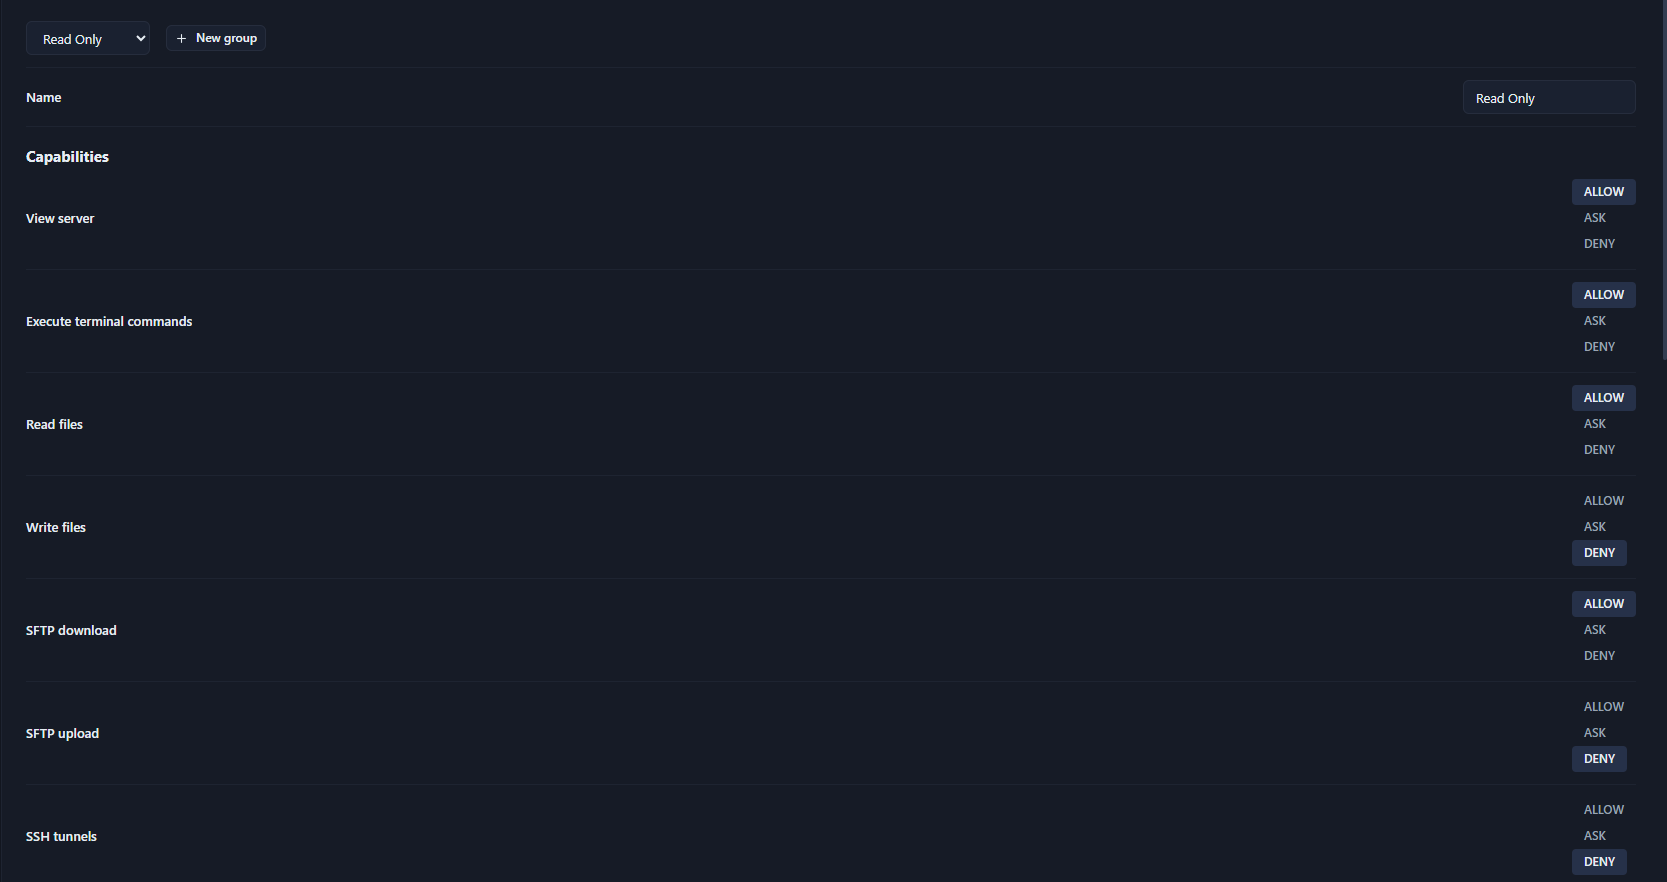
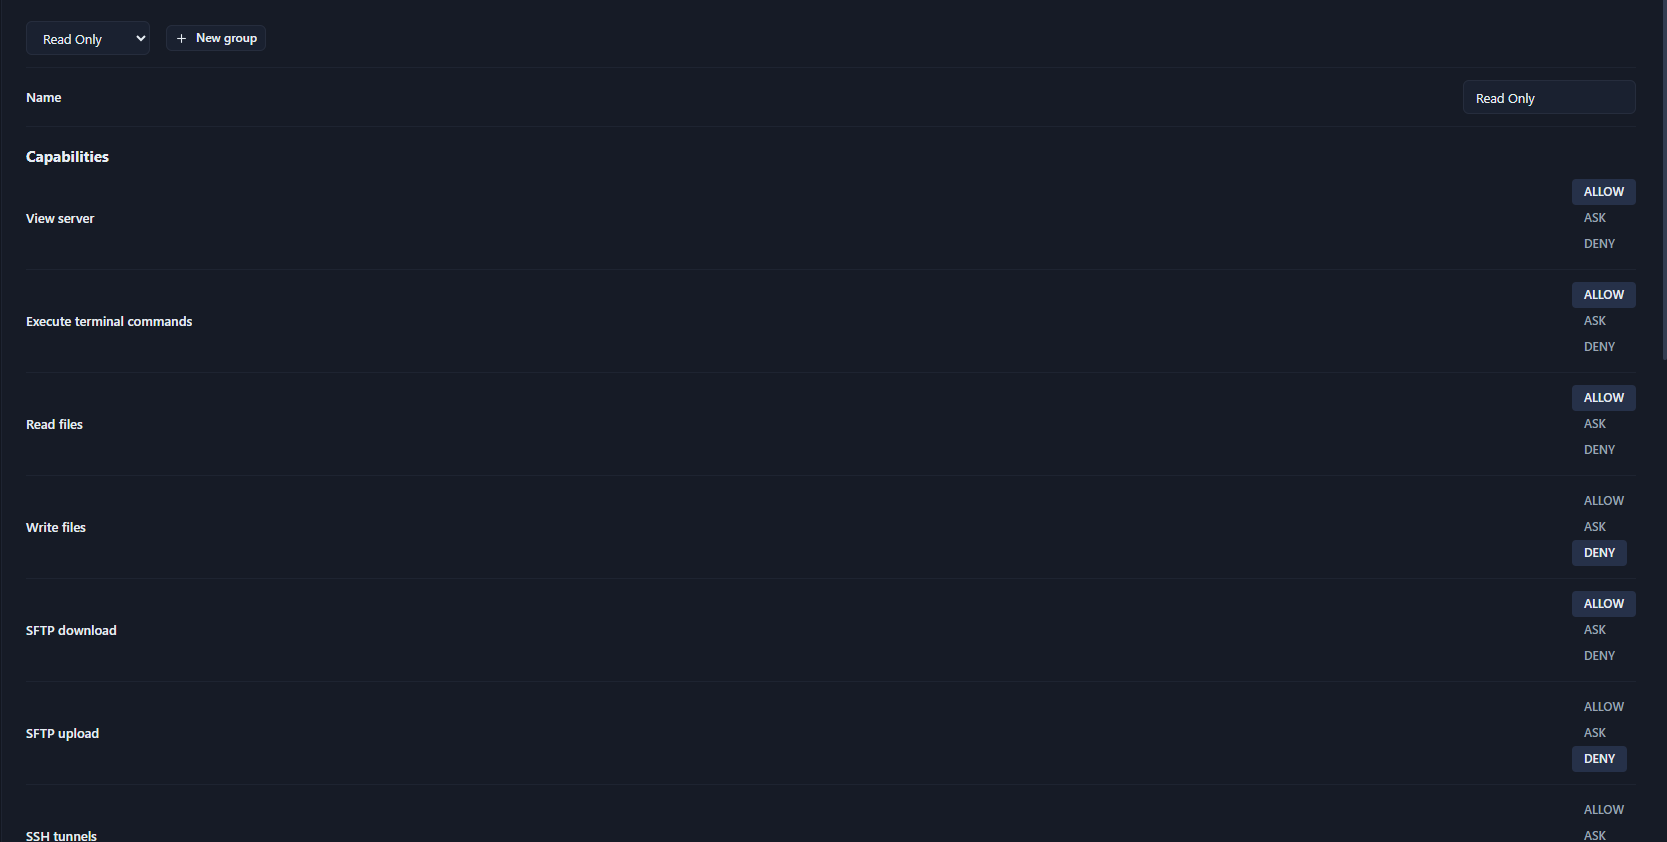
Correct the CLI claim, fix platform detection, even out the captures
Three corrections after checking the page against the source rather than
the README.

`opsmaxx claude` is real (src/cli/index.ts), but the page presented it as
the way to connect an agent while defaulting to macOS — where the
installer does not put opsmaxx on the PATH. The one-click Connect button
in the app is now the primary route and the CLI is the alternative, with
the PATH caveat stated on the platform it applies to.

Platform detection ran in an effect inside an island that hydrated on
scroll, so a Windows visitor read macOS instructions until they reached
the section. The island hydrates at load now. Detection stays in the
effect rather than the initialiser: doing it during render made the first
client render disagree with the server HTML, which is React error #418.

The tour captures were 1.98, 1.89 and 4.73 aspect and a portrait dialog,
so switching tabs resized the page. All three are re-cropped to 1.98 and
sit in one fixed frame; the portrait jump-host dialog is dropped rather
than letterboxed.

Hash verification is labelled optional, since it is a check rather than a
step. No install commands remain for double-clicking an installer.

diff --git a/src/data/copy.ts b/src/data/copy.ts
@@ -80,19 +80,6 @@ export const tour: TourItem[] = [
     ],
     shot: '/shots/audit.png',
     alt: 'Audit log listing agent actions with approval state and result'
-  },
-  {
-    id: 'connect',
-    tab: 'Jump hosts',
-    headline: 'Chain as many bastions as your network actually needs.',
-    body: 'Each hop carries its own credentials. Connections are shared, so a two-factor code is something you type once rather than once per session.',
-    bullets: [
-      'Unlimited chained hops per server',
-      'Imports ~/.ssh/config, ProxyJump entries included',
-      'Databases and SFTP ride the same connection'
-    ],
-    shot: '/shots/jumphosts.png',
-    alt: 'Server dialog with a chain of jump hosts, each with its own credentials'
   }
 ]
 
@@ -373,14 +360,19 @@ export const install = {
   ],
 
   trustLine: 'Every release is scanned by 70+ antivirus engines and publishes a SHA-256 for each file.',
-  verifyLabel: 'Check the hash against the one on the release page',
+  verifyLabel: 'Optional: check the hash against the release page',
 
   finish: {
     importTitle: 'Import what you already have',
     importBody: 'OpsMaxx reads ~/.ssh/config, ProxyJump entries included, so the servers you already reach by name are there on first run.',
     agentTitle: 'Connect Claude Code',
+    agentBody: 'AI & MCP → Overview → Connect Claude Code copies a ready command with the token already in it. One paste in a terminal and the bridge is live.',
     agentCmd: 'opsmaxx claude',
-    agentBody: 'One command registers the bridge and launches it. A pairing code appears in the app, so there is no token to copy or paste.'
+    agentCmdNote: {
+      macos: 'There is a CLI too, though the macOS installer does not put opsmaxx on your PATH — call the launcher inside the app bundle, or use the button above.',
+      windows: 'Or use the CLI, which the Windows installer does put on your PATH:',
+      linux: 'Or use the CLI:'
+    }
   }
 }
 

diff --git a/src/components/islands/Install.tsx b/src/components/islands/Install.tsx
@@ -49,6 +49,9 @@ function StepHead({ n, title, sub }: { n: string; title: string; sub: string }) 
 }
 
 export function Install() {
+  // Detected after mount, not during render: the first client render has to
+  // match the server HTML or React bails out of hydration. client:load means
+  // the correction happens at load, long before this section is scrolled to.
   const [os, setOs] = useState('macos')
   useEffect(() => setOs(detect()), [])
 
@@ -156,11 +159,14 @@ export function Install() {
 
           <div className="mt-6 border-t border-border pt-6">
             <p className="text-[0.86rem] font-medium">{install.finish.agentTitle}</p>
-            <div className="mt-3">
+            <p className="mt-1.5 text-[0.86rem] leading-relaxed text-muted-foreground">
+              {install.finish.agentBody}
+            </p>
+            <div className="mt-4">
               <Command cmd={install.finish.agentCmd} />
             </div>
             <p className="mt-2.5 text-[0.86rem] leading-relaxed text-muted-foreground">
-              {install.finish.agentBody}
+              {install.finish.agentCmdNote[os as keyof typeof install.finish.agentCmdNote]}
             </p>
           </div>
         </div>

diff --git a/src/components/islands/ProductTour.tsx b/src/components/islands/ProductTour.tsx
@@ -36,7 +36,9 @@ export function ProductTour() {
           </ul>
         </div>
 
-        <div className="relative">
+        {/* One frame at a fixed ratio, so switching tabs never resizes the
+            page and every capture reads as the same window. */}
+        <div className="shot-frame relative aspect-[99/50] w-full">
           {tour.map((t) => (
             <img
               key={t.id}
@@ -47,8 +49,8 @@ export function ProductTour() {
               loading="lazy"
               decoding="async"
               className={cn(
-                'shot-frame w-full transition-opacity duration-500',
-                t.id === active ? 'relative opacity-100' : 'pointer-events-none absolute inset-0 opacity-0'
+                'absolute inset-0 size-full object-cover object-top transition-opacity duration-500',
+                t.id === active ? 'opacity-100' : 'pointer-events-none opacity-0'
               )}
             />
           ))}
